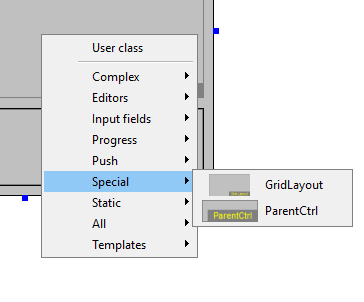
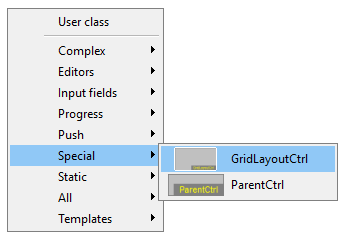
Updated

diff --git a/examples/GridLayoutCtrl_example/GridLayoutCtrl_example.cpp b/examples/GridLayoutCtrl_example/GridLayoutCtrl_example.cpp
@@ -1,6 +1,6 @@
-#include "GridLayout.h"
+#include "GridLayoutCtrl_example.h"
 
-GridLayout::GridLayout()
+GridLayoutCtrl_example::GridLayoutCtrl_example()
 {
 	CtrlLayout(*this, "GridLayoutCtrl Example");
 	GLa.SetColumns(3);
@@ -24,7 +24,7 @@ GridLayout::GridLayout()
 	btn2.SetLabel("2");
 	btn3.SetLabel("3");
 	btn4.SetLabel("4");
-	GLb.Add()
+
 	GLb.Add(btn1);
 	GLb.Add(btn2);
 	GLb.Add(btn3);
@@ -66,5 +66,5 @@ GridLayout::GridLayout()
 
 GUI_APP_MAIN
 {
-	GridLayout().Zoomable().Sizeable().Run();
+	GridLayoutCtrl_example().Zoomable().Sizeable().Run();
 }

diff --git a/examples/GridLayoutCtrl_example/GridLayoutCtrl_example.h b/examples/GridLayoutCtrl_example/GridLayoutCtrl_example.h
@@ -6,10 +6,10 @@
 
 using namespace Upp;
 
-#define LAYOUTFILE <GridLayout/GridLayout.lay>
+#define LAYOUTFILE <GridLayoutCtrl_example/GridLayoutCtrl_example.lay>
 #include <CtrlCore/lay.h>
 
-class GridLayout : public WithGridLayout_exampleLayout<TopWindow> {
+class GridLayoutCtrl_example : public WithGridLayout_exampleLayout<TopWindow> {
 public:
 	Button btnA, btnB, btnC, btnD, btnE, btnF;
 	Button btn1, btn2, btn3, btn4;
@@ -24,7 +24,7 @@ public:
 	
 	ParentCtrl PC;
 	
-	GridLayout();
+	GridLayoutCtrl_example();
 };
 
 #endif
